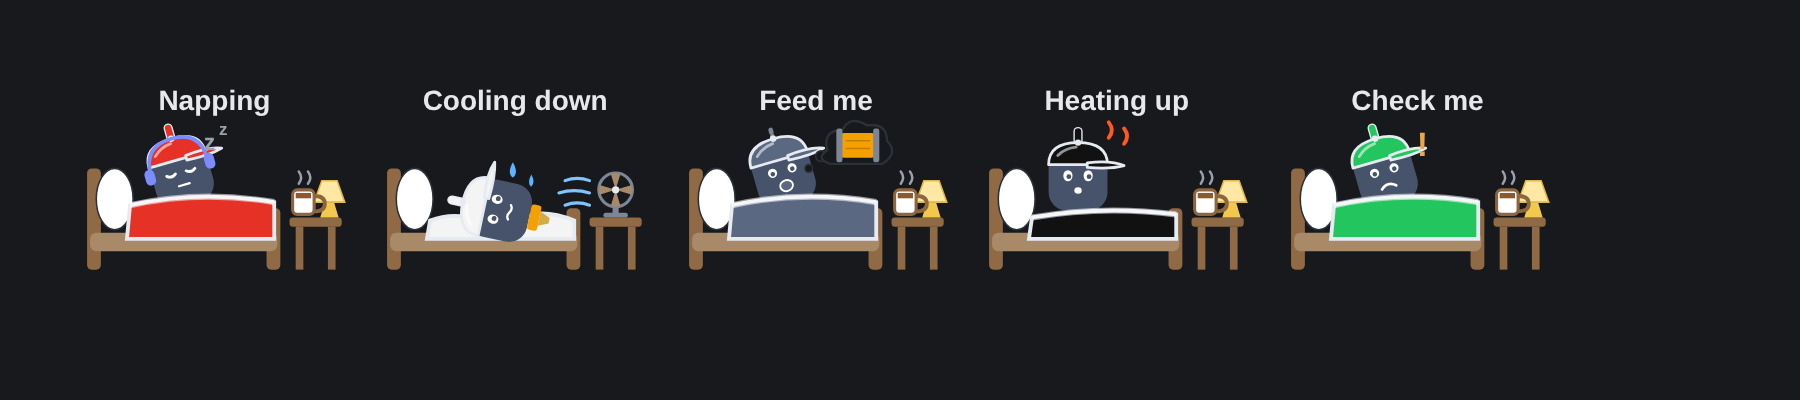
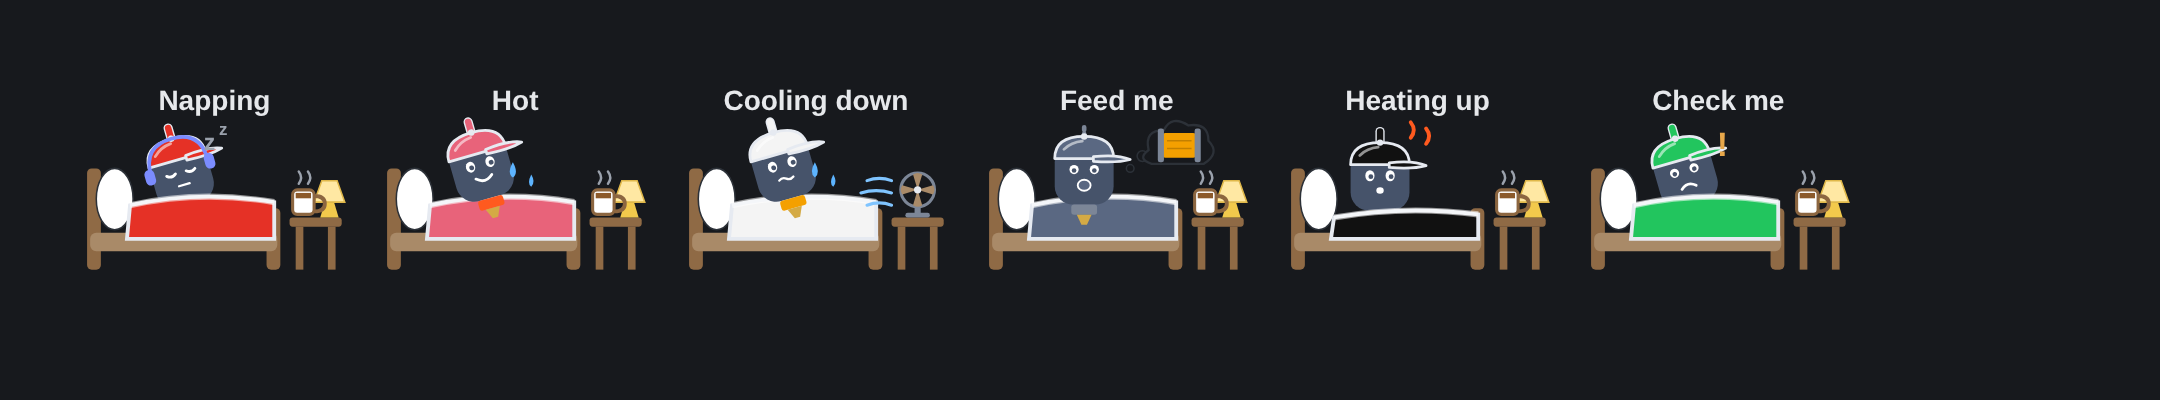
Device: hot heads rest on top of the blanket, the fan only while cooling down, empty heads sit up and think of a spool
Claude-Session: https://claude.ai/code/session_01NuZpi382jh2qaLFFDcqjx2

Changed region(s): [[0.0311, 0.21, 0.8711, 0.69], [0.7467, 0.21, 0.84, 0.3]]

diff --git a/apps/web/src/device/ui/HeadBed.tsx b/apps/web/src/device/ui/HeadBed.tsx
@@ -19,13 +19,14 @@ const PHONES = (
 );
 
 /** How a docked head rests, from its mood: what it does in bed and what is on the bedside table. */
-type Pose = 'nap' | 'hot' | 'dream' | 'stretch' | 'worried';
+type Pose = 'nap' | 'hot' | 'cooling' | 'dream' | 'stretch' | 'worried';
 
 function poseOf(mood: HeadMood, temp: number): Pose {
   if (mood === 'worried') return 'worried';
   if (mood === 'hungry') return 'dream';
   if (mood === 'heating') return 'stretch';
-  if (mood === 'hot' || mood === 'cooling' || temp >= STILL_HOT) return 'hot';
+  if (mood === 'cooling') return 'cooling';
+  if (mood === 'hot' || temp >= STILL_HOT) return 'hot';
   return 'nap';
 }
 
@@ -33,9 +34,11 @@ function poseOf(mood: HeadMood, temp: number): Pose {
  * A docked tool head in bed, propped up on its pillow so the face shows.
  * Napping: headphones on, under a blanket in its filament colour; now and then
  * a coffee break (headphones on the bedpost, sits up, sips from the mug on the
- * bedside table, lies back). Still hot: sprawled on top of the squashed
- * blanket with a fan blowing at it. No filament: dreams of a spool. Heating
- * up: sits up and stretches. Getting up and going to bed are the same moves.
+ * bedside table, lies back). Hot: rests the same way but on top of the
+ * blanket, sweating; cooling down adds a fan on the bedside table. No
+ * filament: sits on top of the blanket, looks at you and thinks of a spool.
+ * Heating up: sits up and stretches as the heat rises. Getting up and going
+ * to bed are the same moves.
  */
 export function HeadBed({ mood, colour, loaded, temp, scene, size = 60 }: { mood: HeadMood; colour: string | null; loaded: boolean | null; temp: number; scene: BedScene; size?: number }) {
   const blanketColour = loaded && colour ? colour : 'var(--dv-head-hi)';
@@ -43,30 +46,26 @@ export function HeadBed({ mood, colour, loaded, temp, scene, size = 60 }: { mood
   const edge = { stroke: 'var(--dv-outline)', strokeWidth: 2.5 };
   const blanket = (
     <g className="dv-bed-blanket">
-      {pose === 'hot' ? (
-        <path d="M30 68Q46 62 62 68Q76 74 90 66Q104 60 124 68V80H28Z" fill={blanketColour} {...edge} />
-      ) : (
-        <>
-          <path d={pose === 'stretch' ? 'M30 66Q76 58 124 64V80H28Z' : 'M30 58Q76 48 124 56V80H28Z'} fill={blanketColour} {...edge} />
-          <path d={pose === 'stretch' ? 'M30 66Q76 58 124 64' : 'M30 58Q76 48 124 56'} stroke="rgba(255,255,255,.55)" strokeWidth="4" fill="none" />
-        </>
-      )}
+      <path d={pose === 'stretch' ? 'M30 66Q76 58 124 64V80H28Z' : 'M30 58Q76 48 124 56V80H28Z'} fill={blanketColour} {...edge} />
+      <path d={pose === 'stretch' ? 'M30 66Q76 58 124 64' : 'M30 58Q76 48 124 56'} stroke="rgba(255,255,255,.55)" strokeWidth="4" fill="none" />
     </g>
   );
+  const onTop = pose === 'hot' || pose === 'cooling' || pose === 'dream';
   const lying =
-    pose === 'hot' ? (
-      <g transform="translate(38 84) rotate(-78) scale(.6)" style={PLACED}>
-        <HeadBody mood="cooling" colour={colour} loaded={loaded} temp={temp} />
-      </g>
-    ) : pose === 'stretch' ? (
+    pose === 'stretch' ? (
       <g transform="translate(30 10) scale(.6)" style={PLACED}>
         <g className="dv-bed-stretch">
           <HeadBody mood="heating" colour={colour} loaded={loaded} temp={temp} />
         </g>
       </g>
+    ) : pose === 'dream' ? (
+      // Sits up on top of the blanket, facing you.
+      <g transform="translate(34 6) scale(.6)" style={PLACED}>
+        <HeadBody mood="hungry" colour={colour} loaded={loaded} temp={temp} />
+      </g>
     ) : (
-      <g transform="translate(26 16) rotate(-16) scale(.6)" style={PLACED}>
-        <HeadBody mood={pose === 'nap' ? 'napping' : pose === 'dream' ? 'hungry' : 'worried'} colour={colour} loaded={loaded} temp={temp} />
+      <g transform={`translate(26 ${onTop ? 12 : 16}) rotate(-16) scale(.6)`} style={PLACED}>
+        <HeadBody mood={pose === 'nap' ? 'napping' : pose === 'worried' ? 'worried' : pose} colour={colour} loaded={loaded} temp={temp} />
         {pose === 'nap' && PHONES}
       </g>
     );
@@ -76,9 +75,9 @@ export function HeadBed({ mood, colour, loaded, temp, scene, size = 60 }: { mood
       <rect x="119" y="60" width="9" height="40" rx="3" fill="var(--dv-wood)" />
       <rect x="4" y="76" width="122" height="12" rx="4" fill="var(--dv-mattress)" />
       <ellipse cx="20" cy="54" rx="12" ry="20" fill="#fff" stroke="var(--border)" />
-      {pose === 'hot' && blanket}
+      {onTop && blanket}
       <g className="dv-bed-lie">{lying}</g>
-      {pose !== 'hot' && blanket}
+      {!onTop && blanket}
       <g className="dv-bed-sit">
         <g transform="translate(60 16) scale(.62)" style={PLACED}>
           <HeadBody mood="ready" colour={colour} loaded={loaded} temp={temp} />
@@ -93,7 +92,7 @@ export function HeadBed({ mood, colour, loaded, temp, scene, size = 60 }: { mood
       <rect x="134" y="66" width="34" height="6" rx="2" fill="var(--dv-wood)" />
       <rect x="138" y="72" width="5" height="28" fill="var(--dv-wood)" />
       <rect x="159" y="72" width="5" height="28" fill="var(--dv-wood)" />
-      {pose === 'hot' ? (
+      {pose === 'cooling' ? (
         <g className="dv-bed-fan">
           <g transform="translate(151 48)" style={PLACED}>
             <rect x="-2" y="8" width="4" height="8" fill="var(--dv-metal)" />
@@ -127,6 +126,7 @@ export function HeadBed({ mood, colour, loaded, temp, scene, size = 60 }: { mood
 function BedExtra({ pose }: { pose: Pose }) {
   switch (pose) {
     case 'hot':
+    case 'cooling':
       return (
         <g className="dv-bed-z" fill="#5db4ff">
           <path className="dv-face-drop" d="M84 30q4 7 0 10q-4-3 0-10z" />
@@ -135,7 +135,7 @@ function BedExtra({ pose }: { pose: Pose }) {
       );
     case 'dream':
       return (
-        <g className="dv-bed-z">
+        <g className="dv-bed-z" transform="translate(14 0)" style={PLACED}>
           <circle cx="80" cy="34" r="2.5" fill="var(--surface)" stroke="var(--border)" />
           <circle cx="88" cy="26" r="3.5" fill="var(--surface)" stroke="var(--border)" />
           <g className="dv-bed-dream">
